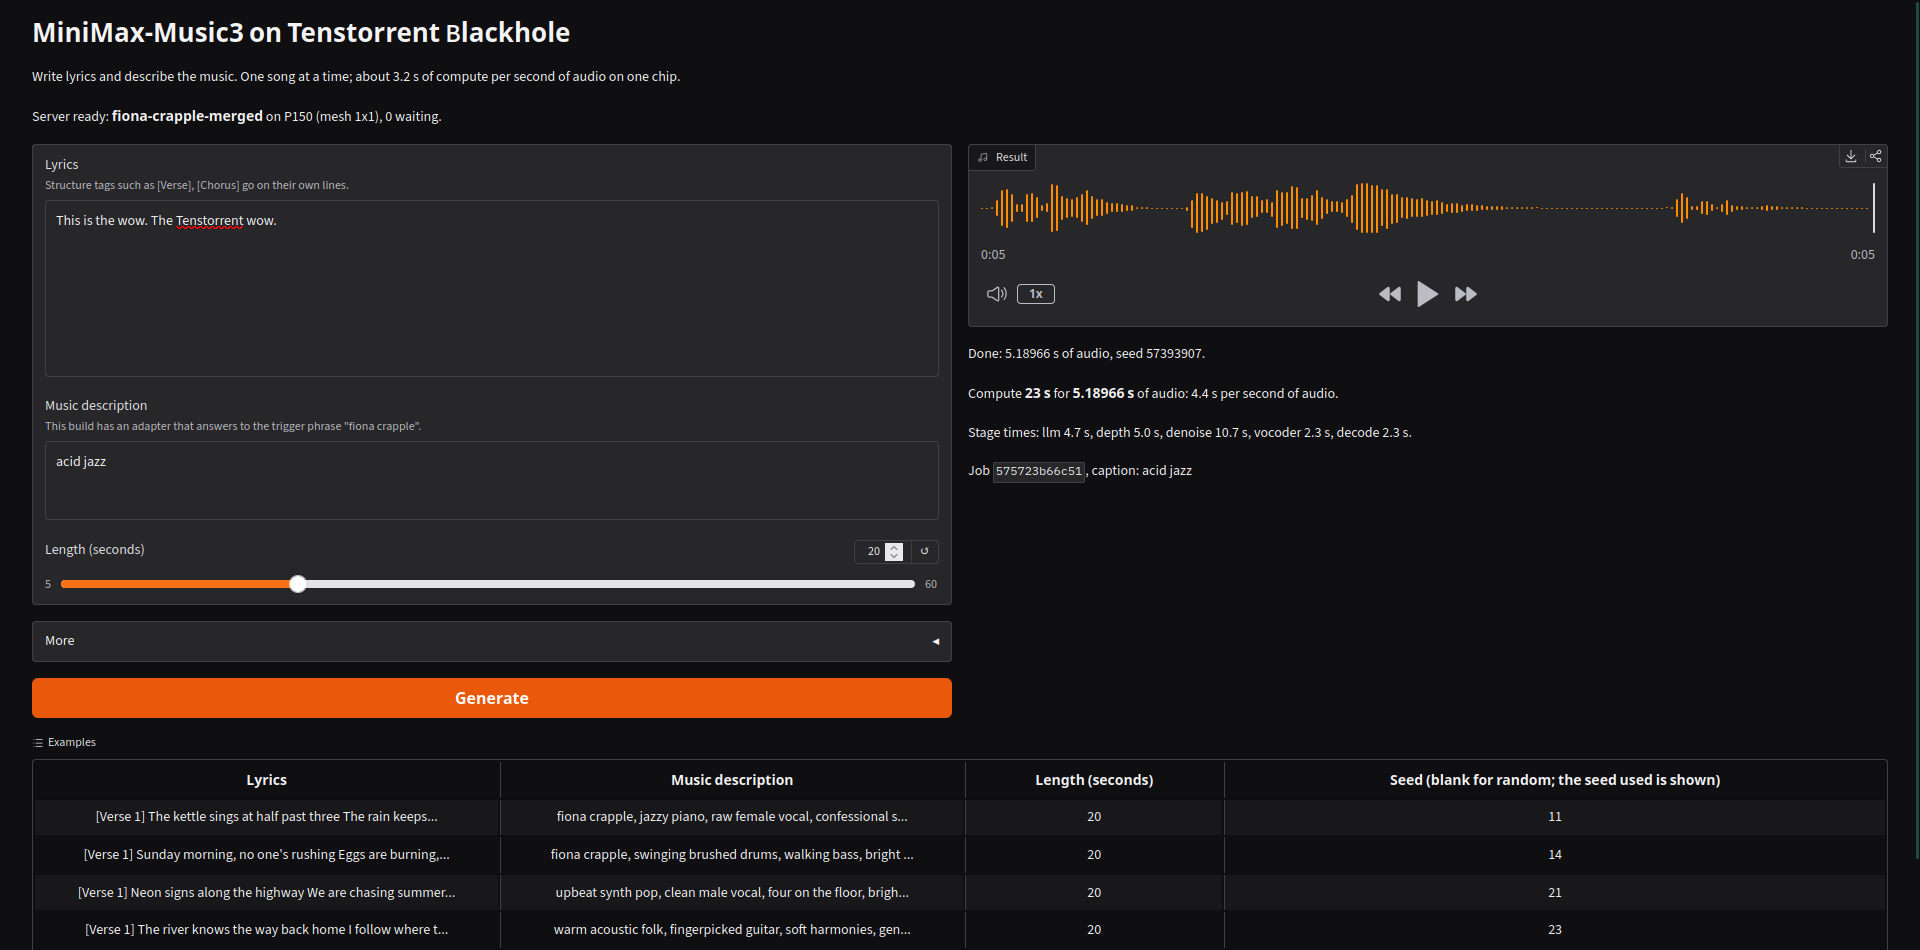
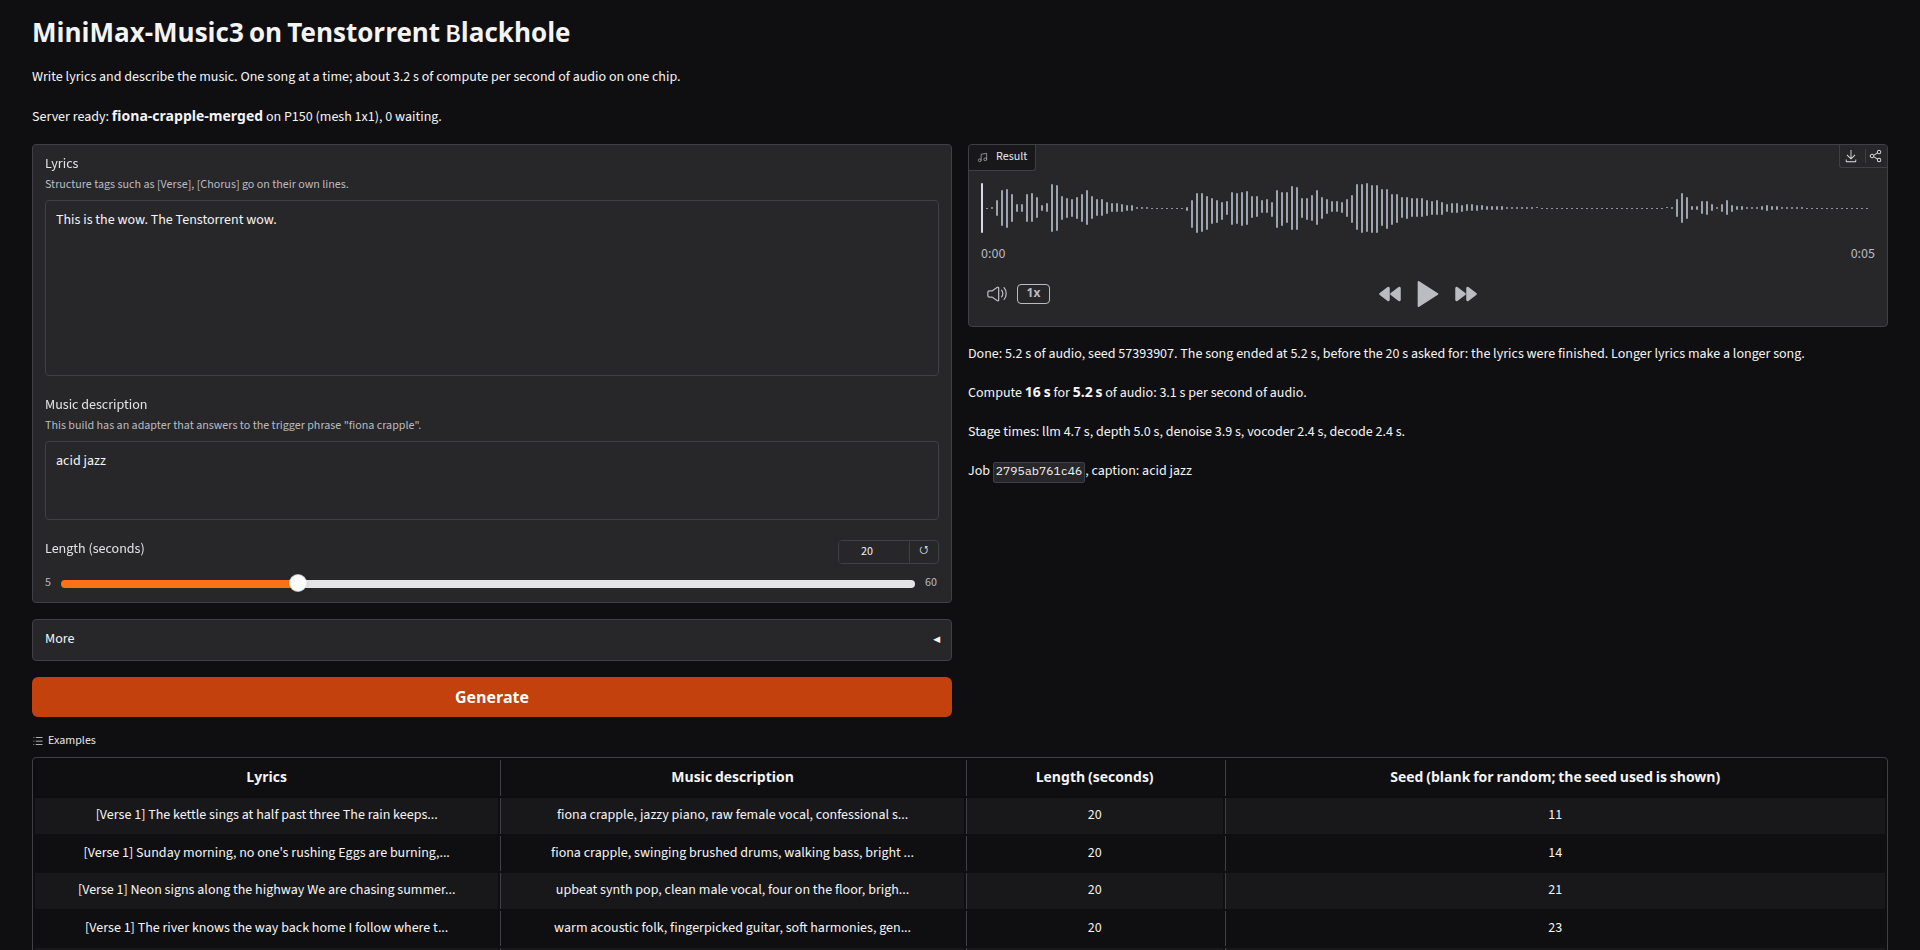
page: a blank steps box (sent as 0) no longer fails; new screenshots with the early-end note

diff --git a/tests/test_app.py b/tests/test_app.py
@@ -158,3 +158,30 @@ def test_a_short_clip_without_the_servers_ended_flag_has_no_note():
     with FakeMusicServer(short_audio_s=5.0) as srv:
         _, status, _ = run(srv, seconds=20)
     assert "before the" not in status
+
+
+def test_the_real_app_accepts_zero_steps_and_means_the_servers_default():
+    # The browser sends a blank number box as 0 once the "More" panel has been touched; a minimum of 1 on the
+    # component rejected that before run_generation could treat it as "use the default".
+    from gradio_client import Client
+    import socket
+    with FakeMusicServer() as srv:
+        demo = app.build_ui(MusicClient(srv.url), poll_s=0.01)
+        with socket.socket() as sock:
+            sock.bind(("127.0.0.1", 0))
+            port = sock.getsockname()[1]
+        _, url, _ = demo.launch(server_name="127.0.0.1", server_port=port, prevent_thread_lock=True, quiet=True)
+        try:
+            audio, status, _ = Client(url, verbose=False).predict("[Verse]\nla", "warm folk", 20, 9, 0, api_name="/generate")
+            assert "seed 9" in status
+            assert "num_inference_steps" not in srv.submitted[-1]
+        finally:
+            demo.close()
+
+
+@pytest.mark.parametrize("steps", [101, 500])
+def test_steps_above_the_servers_limit_are_a_plain_message(steps):
+    with FakeMusicServer() as srv:
+        with pytest.raises(gr.Error, match="steps"):
+            run(srv, steps=steps)
+        assert srv.submitted == []

diff --git a/demo/app.py b/demo/app.py
@@ -111,7 +111,7 @@ def build_ui(client: MusicClient, poll_s: float = 2.0) -> gr.Blocks:
                 seconds = gr.Slider(MIN_SECONDS, MAX_SECONDS, value=20, step=5, label="Length (seconds)")
                 with gr.Accordion("More", open=False):
                     seed = gr.Number(label="Seed (blank for random; the seed used is shown)", value=None, precision=0, minimum=0)
-                    steps = gr.Number(label="Diffusion steps (blank for the server's default)", value=None, precision=0, minimum=1, maximum=100)
+                    steps = gr.Number(label="Diffusion steps, 1 to 100 (blank or 0 for the server's default)", value=None, precision=0)   # no minimum here: a blank box arrives as 0
                 go = gr.Button("Generate", variant="primary")
             with gr.Column(scale=1):
                 audio = gr.Audio(label="Result", type="filepath", interactive=False)

diff --git a/tests/test_card.py b/tests/test_card.py
@@ -87,3 +87,7 @@ def test_the_title_says_companion_and_names_the_board(card):
 def test_the_screenshots_are_in_the_card_and_the_files_exist(card):
     for name in ("gradio-generating.png", "gradio-done.png"):
         assert f"](docs/{name})" in card and (ROOT / "docs" / name).is_file()
+
+
+def test_the_card_says_the_page_explains_an_early_end(card):
+    assert "The page says so when it happens." in card

diff --git a/package/README.generated-preview.md b/package/README.generated-preview.md
@@ -106,7 +106,7 @@ healthy 90 to 172 s after its container started (4 starts).
 - One song is generated at a time. In a test, 9 jobs were accepted at once (one running, eight waiting) and a tenth got HTTP 429.
 - Slower than real time: about 3.3 s of compute per second of audio on one chip.
 - Only the `p150` profile on one chip is tested, and only with 20 s requests. The server allows up to 9000 frames (6 minutes).
-- A song ends when its lyrics are finished, which can be before the requested length: a two-sentence lyric made 5.2 s of a requested 20 s, and 1 of 20 test requests with full lyrics ended at 16.6 s of 20 s.
+- A song ends when its lyrics are finished, which can be before the requested length: a two-sentence lyric made 5.2 s of a requested 20 s, and 1 of 20 test requests with full lyrics ended at 16.6 s of 20 s. The page says so when it happens.
 - No quality evaluation against the base model has been run. The adapter was trained on nine tracks in one style; its effect without
   the trigger phrase is not measured.
 - Not for imitating a specific real artist's voice or presenting generated audio as a recording of a real person.

diff --git a/hf/README.md b/hf/README.md
@@ -97,7 +97,7 @@ healthy 90 to 172 s after its container started (4 starts).
 - One song is generated at a time. In a test, 9 jobs were accepted at once (one running, eight waiting) and a tenth got HTTP 429.
 - Slower than real time: about 3.3 s of compute per second of audio on one chip.
 - Only the `p150` profile on one chip is tested, and only with 20 s requests. The server allows up to 9000 frames (6 minutes).
-- A song ends when its lyrics are finished, which can be before the requested length: a two-sentence lyric made 5.2 s of a requested 20 s, and 1 of 20 test requests with full lyrics ended at 16.6 s of 20 s.
+- A song ends when its lyrics are finished, which can be before the requested length: a two-sentence lyric made 5.2 s of a requested 20 s, and 1 of 20 test requests with full lyrics ended at 16.6 s of 20 s. The page says so when it happens.
 - No quality evaluation against the base model has been run. The adapter was trained on nine tracks in one style; its effect without
   the trigger phrase is not measured.
 - Not for imitating a specific real artist's voice or presenting generated audio as a recording of a real person.

diff --git a/README.md b/README.md
@@ -21,7 +21,7 @@ on Hugging Face is [`hf/README.md`](hf/README.md).
 
 ![The Gradio page with a finished song: waveform, player, length, seed and stage times](docs/gradio-done.png)
 
-The second screenshot is a two-sentence lyric: the song ended at 5.2 s of the 20 s asked for, because the lyrics were finished.
+The second screenshot is a two-sentence lyric: the song ended at 5.2 s of the 20 s asked for, because the lyrics were finished, and the page says so.
 
 ## Run it
 
